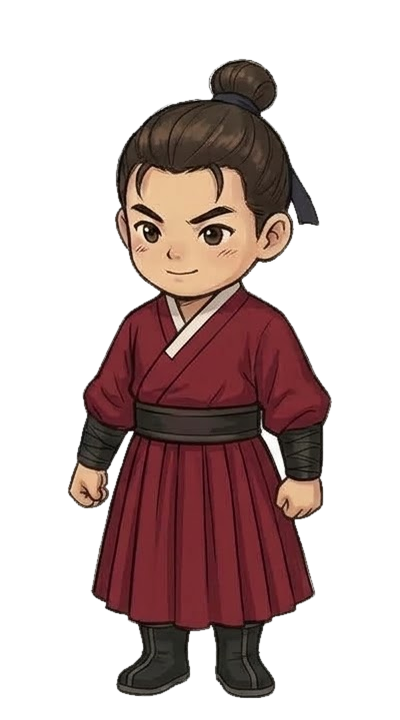
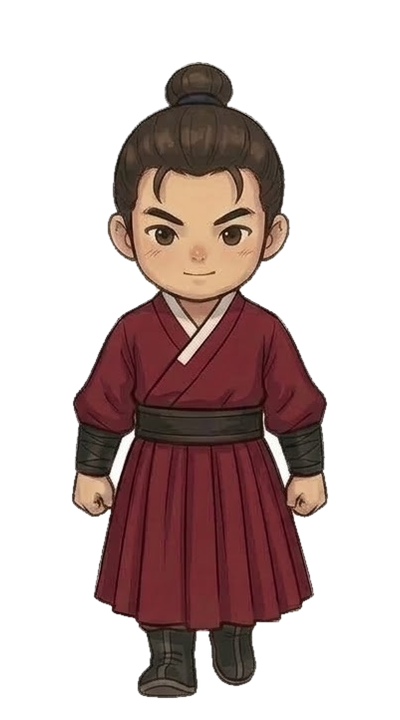
그림: 옷 2~6 걷기 자세(정면·옆면·뒷면) 추가·교체, 원본 보관, 지침에 legSplitY 재확인 안내
Claude-Session: https://claude.ai/code/session_01QuTLXg2xFLQ1VXnbRSEuD1

Changed region(s): [[0.15, 0.0611, 0.84, 0.9778]]

diff --git a/CLAUDE.md b/CLAUDE.md
@@ -60,12 +60,13 @@ docs/          문서 사본
 - 모든 PNG는 **투명 배경, 400×720 캔버스, 발끝 기준선 y=700, 가로 가운데 정렬**. 정면 서 있기 키를 640px로 맞춰 옷 사이 크기가 같음.
 - 파일: `front.png`, `side.png`(왼쪽을 봄), `back.png` = 서 있기 / `front_step.png`, `side_step.png`, `back_step.png` = 걷기 자세.
 - **오른쪽 방향은 `side*`를 좌우 반전**해서 씀.
-- 현재 걷기 자세가 다 갖춰진 것은 옷 1뿐. 옷 2~6은 `front_step`만 있음(다른 생성본이라 크기가 미세하게 다를 수 있음). 나머지는 그림이 나오는 대로 추가됨. 없는 파일은 서 있기 그림으로 대체해서 동작해야 함.
+- 옷 6종 모두 서 있기 3장 + 걷기 자세 3장이 갖춰져 있음.
+- 옷 목록과 다리 반전 기준선은 `data/outfits.json`(`legSplitY`)에서 관리. 2026-10-09에 옷 2~6의 `*_step.png`가 새 그림으로 교체되었으므로 `legSplitY`를 다시 확인할 것(기획 쪽 측정 참고값: 무명옷 590, 도포 592, 철릭 612, 두정갑 600, 신선복 600).
 
 ### 걷기 애니메이션 방식 (검증 완료)
 
 - 프레임 순서: `step` → `stand` → `step(다리 반전)` → `stand`, 약 180ms 간격.
-- **정면·뒷면의 반대 발**: `step` 그림에서 저고리 아랫단 아래(캔버스 기준 약 y=555 이하, 옷마다 확인 필요)의 다리 부분만 몸 중심선 기준으로 좌우 반전하고, 그 위에 상체를 다시 얹음. 런타임에 처리하거나 빌드 시 미리 만들어도 됨.
+- **정면·뒷면의 반대 발**: `step` 그림에서 `data/outfits.json`의 `legSplitY` 아래(옷자락 아래) 다리 부분만 몸 중심선 기준으로 좌우 반전하고, 그 위에 상체를 다시 얹음. 런타임에 처리하거나 빌드 시 미리 만들어도 됨.
 - **옆면**: `side_step`과 `side`를 번갈아 씀(다리 반전 안 함).
 - 걷기 자세 프레임에서 몸을 약 3~6px 띄워 걷는 리듬을 줌.
 
